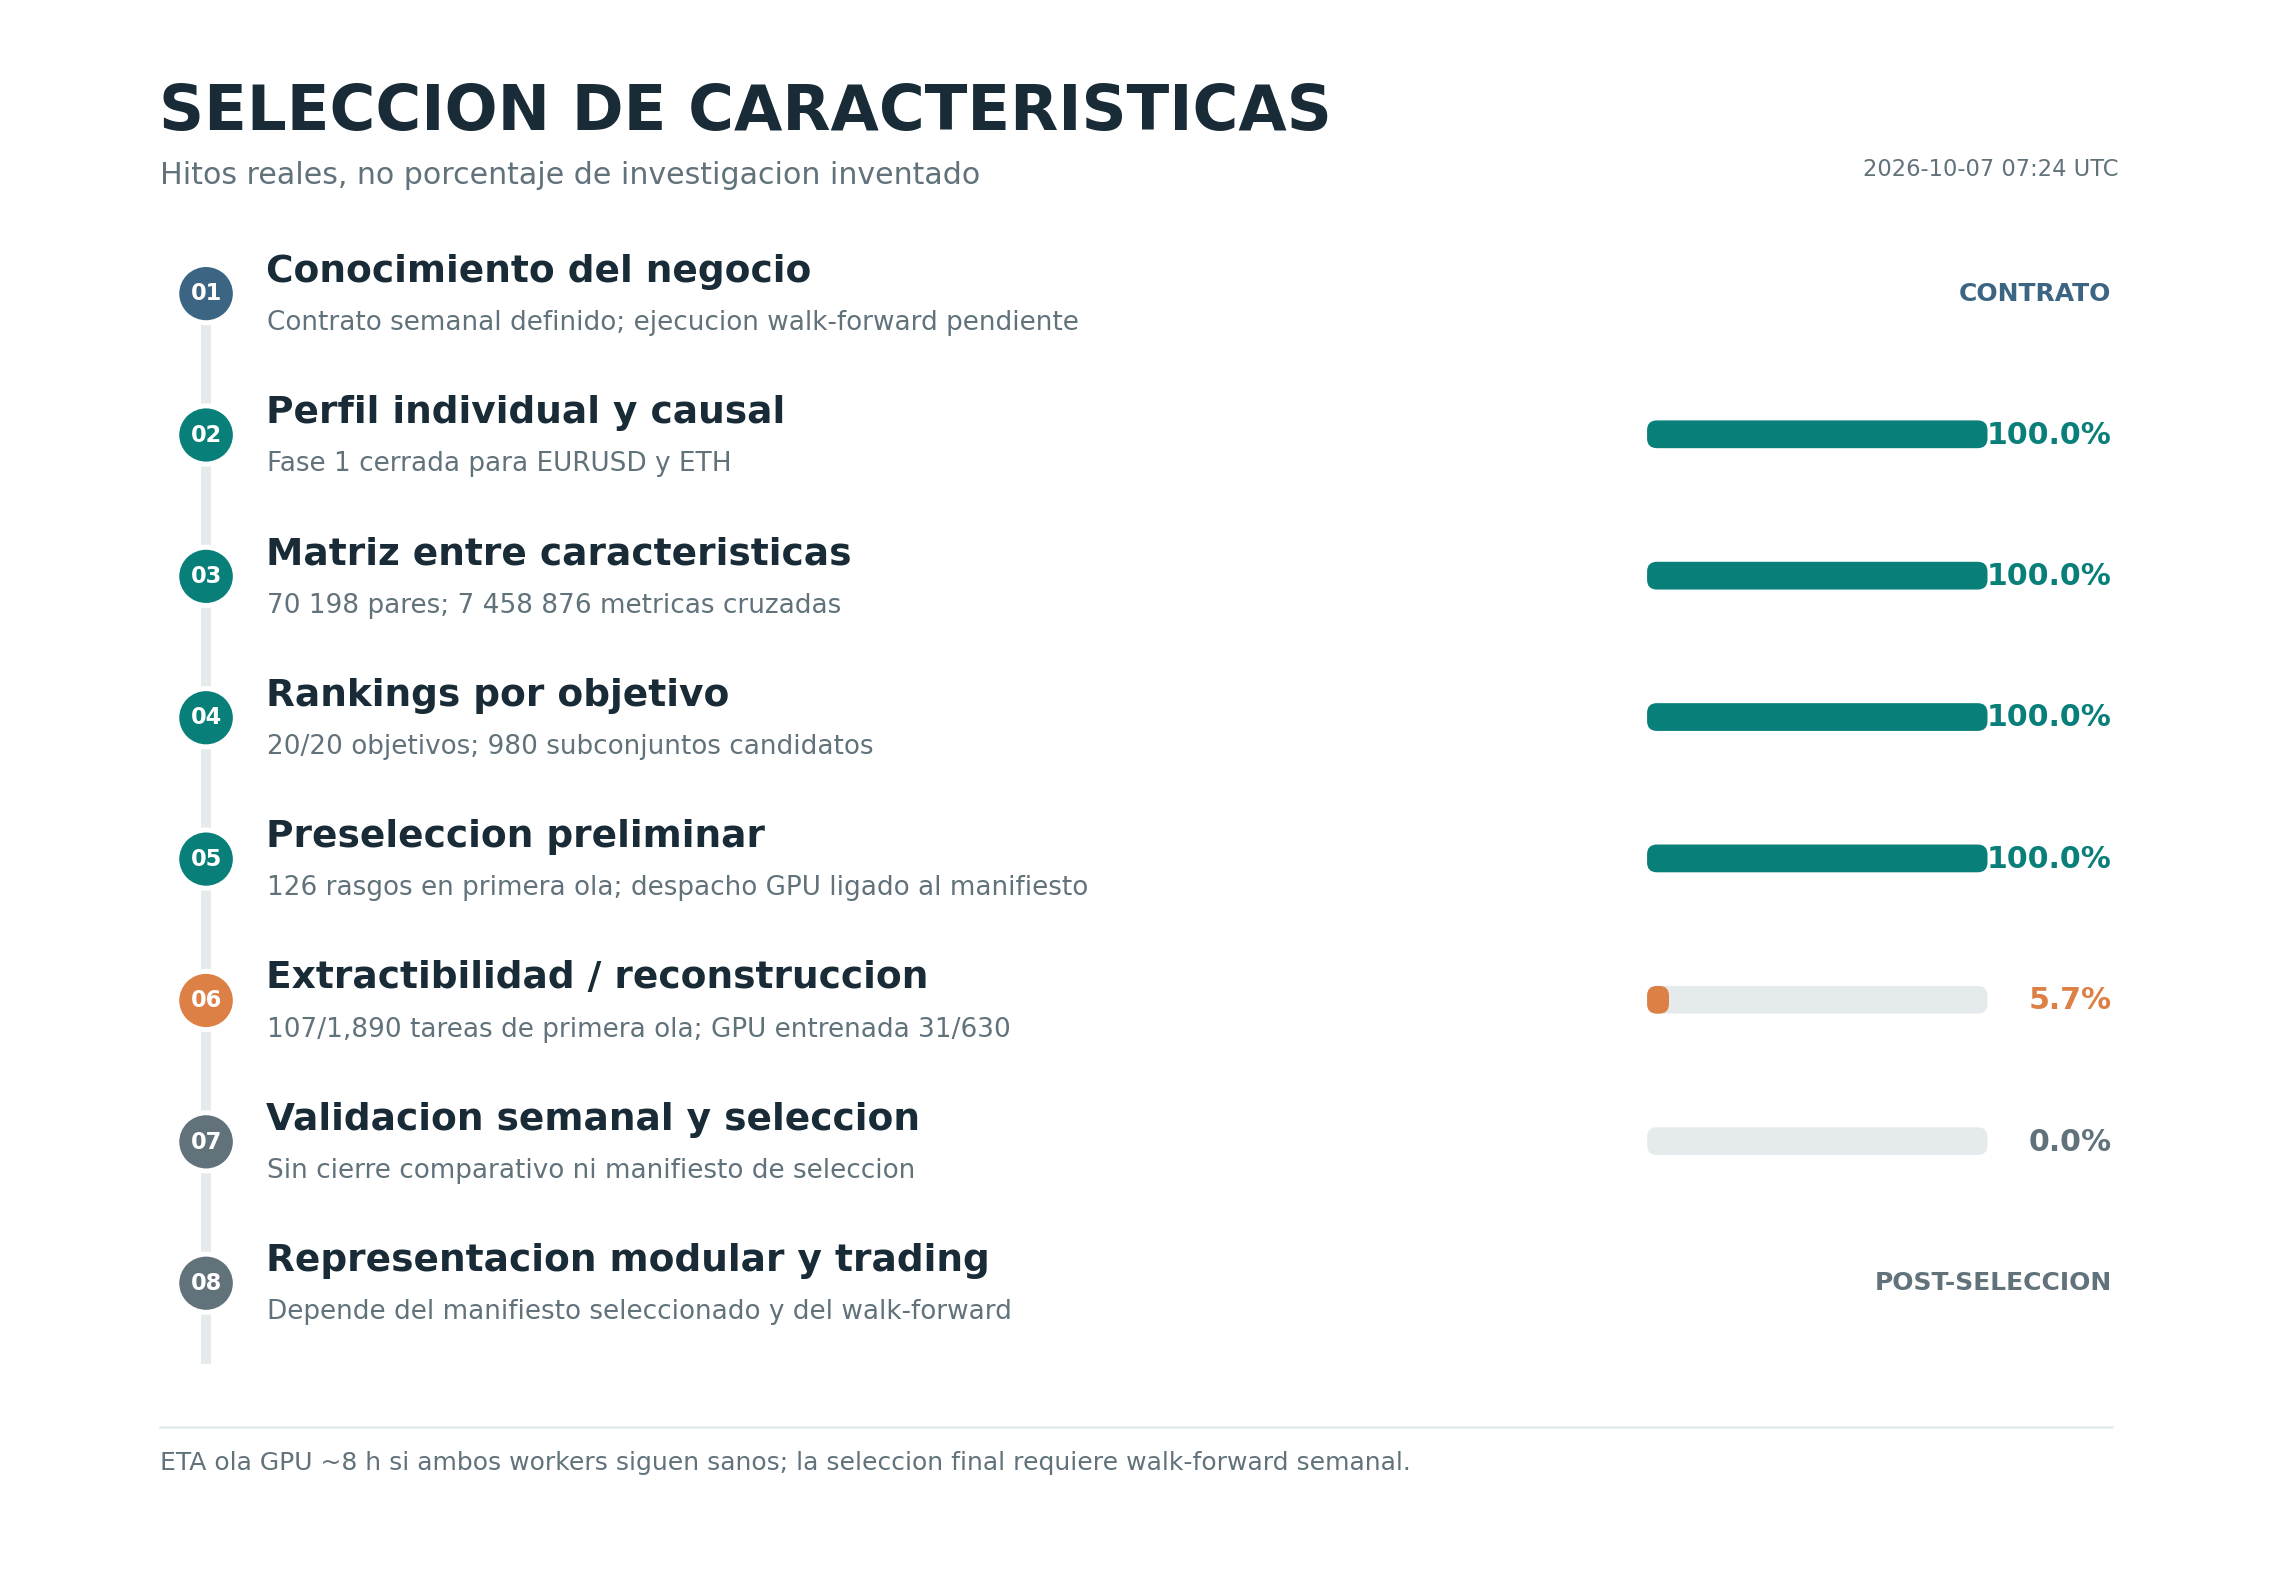
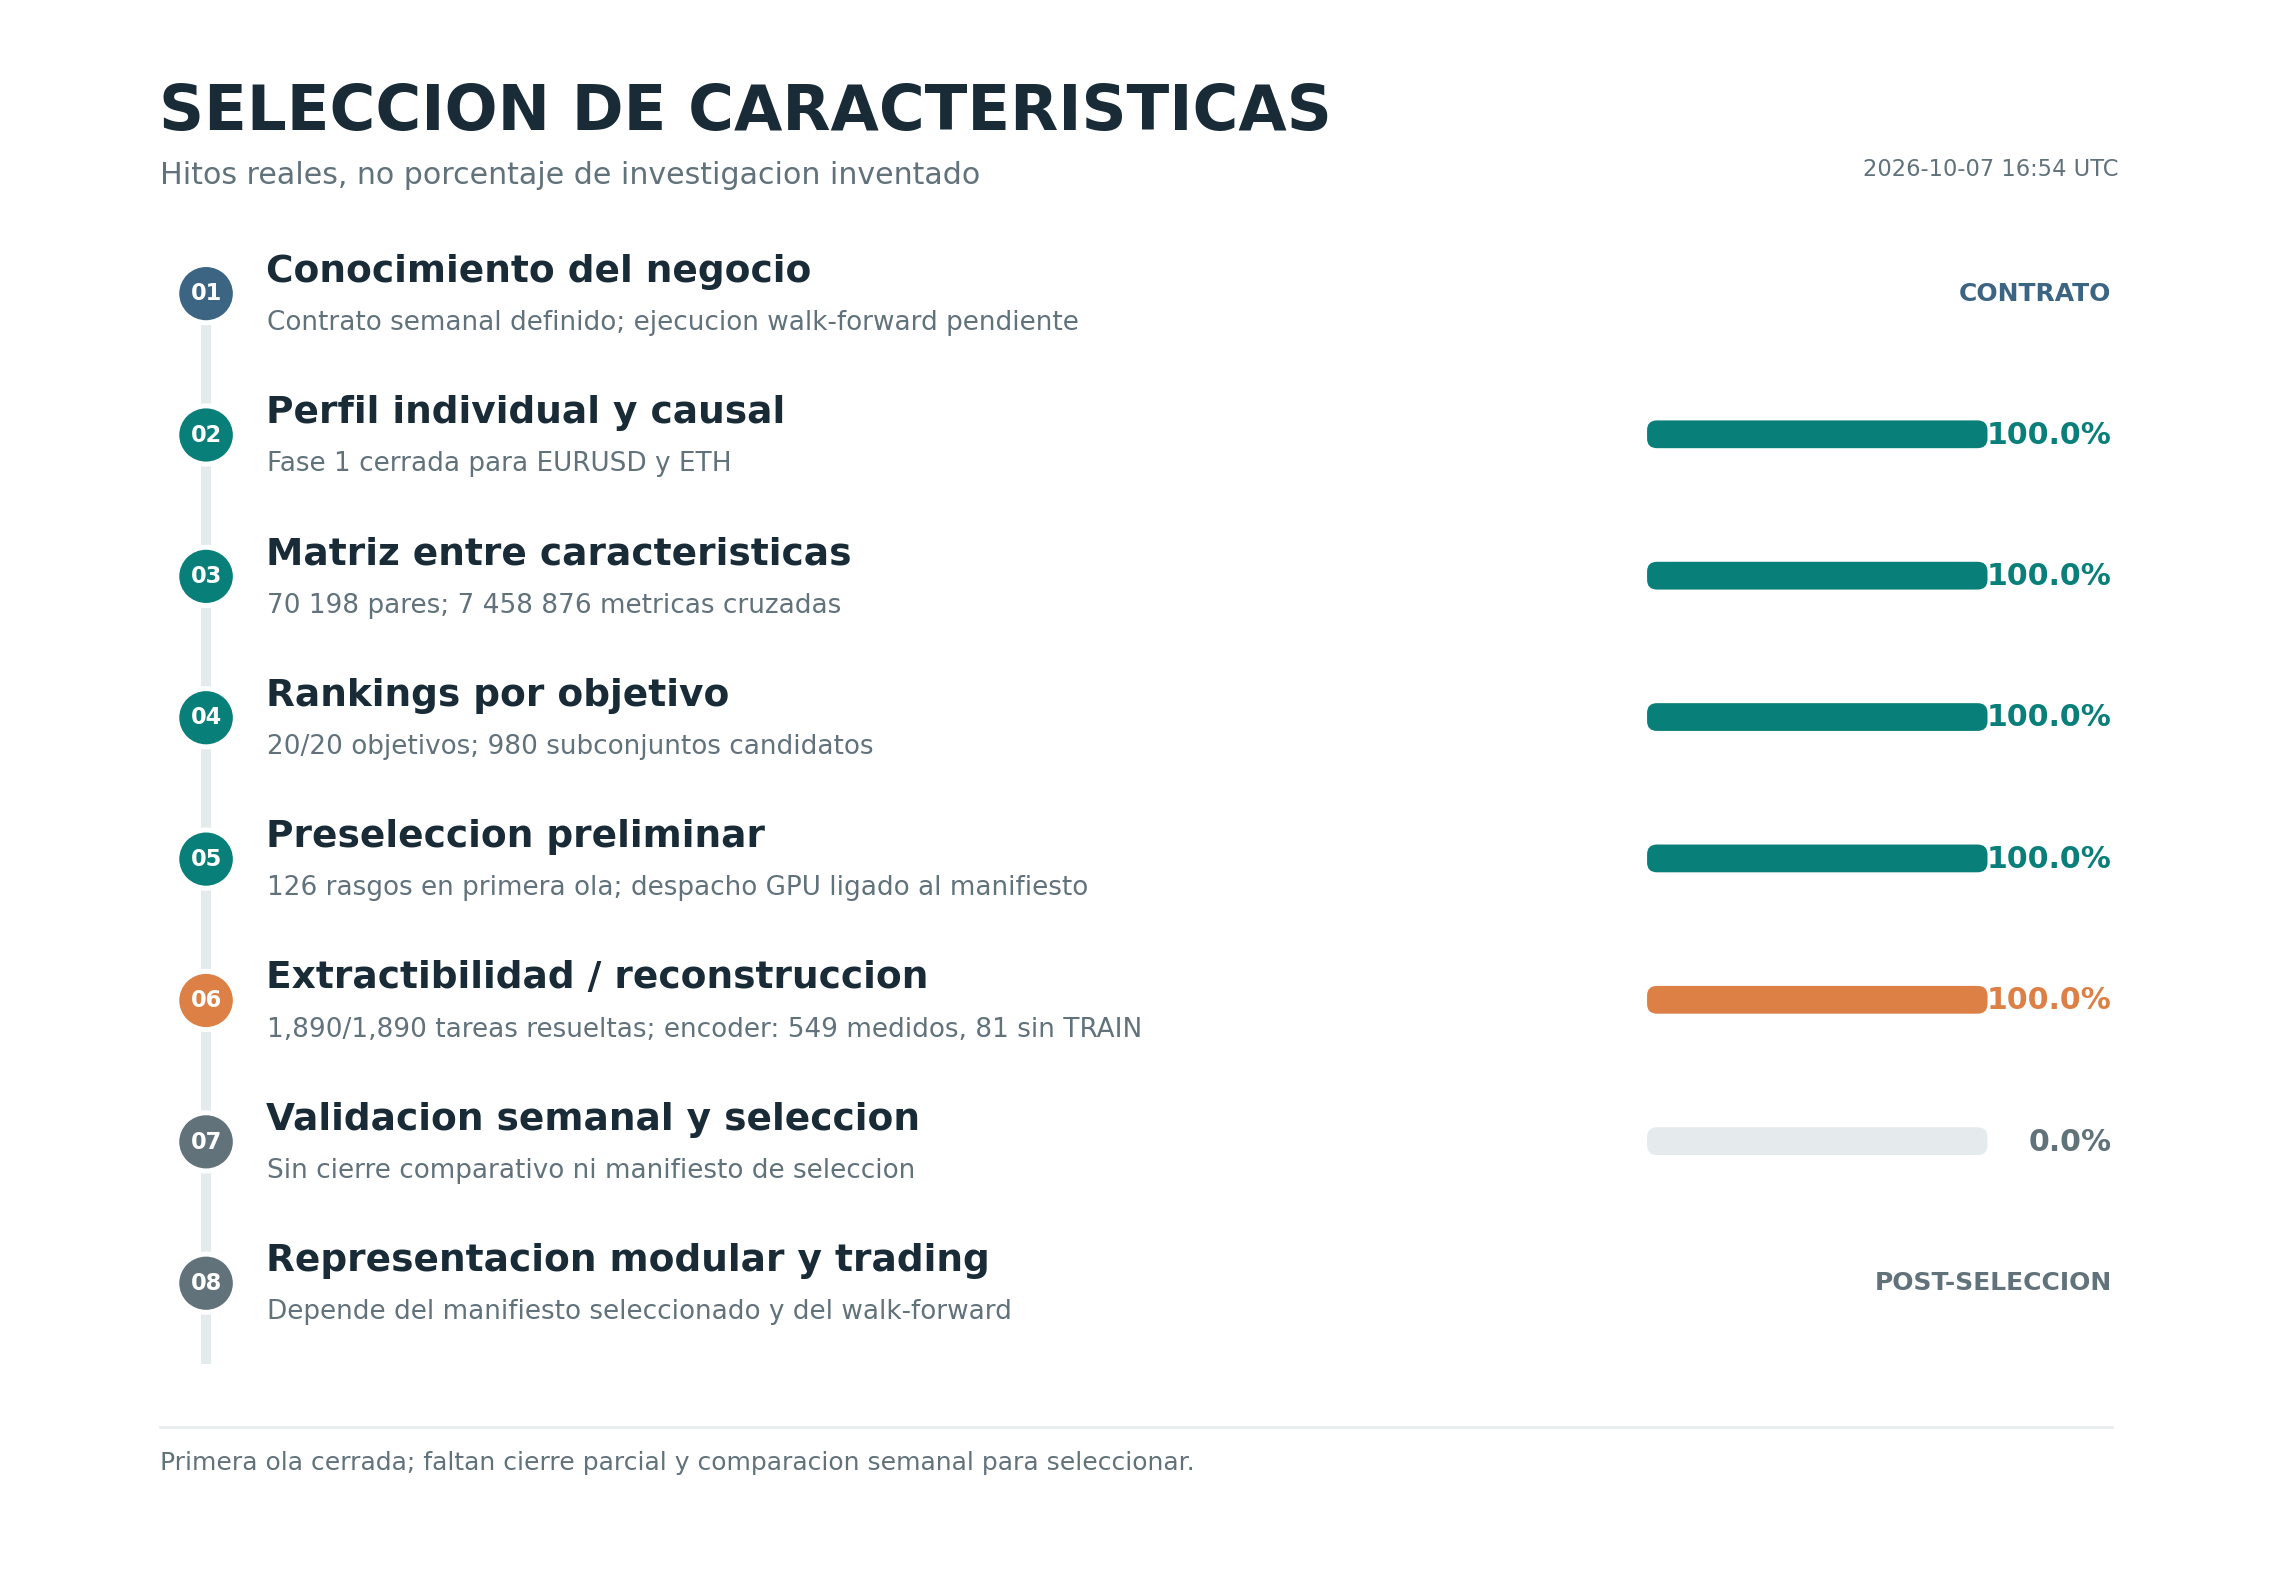
Report completed first-wave extractibility without inflating measurements

diff --git a/tools/render_feature_selection_progress.py b/tools/render_feature_selection_progress.py
@@ -17,7 +17,10 @@ from matplotlib.patches import Circle, FancyBboxPatch
 
 def render(status_path: Path, output_path: Path, wave_status_path: Path | None = None) -> None:
     status = json.loads(status_path.read_text())
-    done = status["complete"] + status.get("not_available_for_train", 0)
+    not_available = status.get("not_available_for_train", 0)
+    if isinstance(not_available, dict):
+        not_available = not_available["total"]
+    done = status["complete"] + not_available
     total = status.get("total", status.get("expected", {}).get("total"))
     if not 0 <= done <= total or total <= 0:
         raise ValueError("Invalid FS4 denominator")
@@ -25,11 +28,14 @@ def render(status_path: Path, output_path: Path, wave_status_path: Path | None =
         wave = json.loads(wave_status_path.read_text())
         wave_total = wave["tasks_per_arm"] * 3
         wave_done = sum(wave["done_per_arm"].values())
-        trained_done = wave["done_per_arm"]["TRAINED_ENCODER"]
-        wave_detail = (f"{wave_done:,}/{wave_total:,} tareas de primera ola; "
-                       f"GPU entrenada {trained_done}/{wave['tasks_per_arm']}")
+        trained_measured = wave["counts"]["TRAINED_ENCODER"]["COMPLETE"]
+        trained_unavailable = wave["typed_refused_per_arm"]["TRAINED_ENCODER"]
+        wave_detail = (f"{wave_done:,}/{wave_total:,} tareas resueltas; encoder: "
+                       f"{trained_measured} medidos, {trained_unavailable} sin TRAIN")
         wave_progress = wave_done / wave_total
-        if wave.get("gpu_eta_seconds") is not None:
+        if wave_done == wave_total:
+            footer = "Primera ola cerrada; faltan cierre parcial y comparacion semanal para seleccionar."
+        elif wave.get("gpu_eta_seconds") is not None:
             eta_hours = wave["gpu_eta_seconds"] / 3600
             footer = (f"ETA ola GPU ~{eta_hours:.0f} h si ambos workers siguen sanos; "
                       "la seleccion final requiere walk-forward semanal.")
